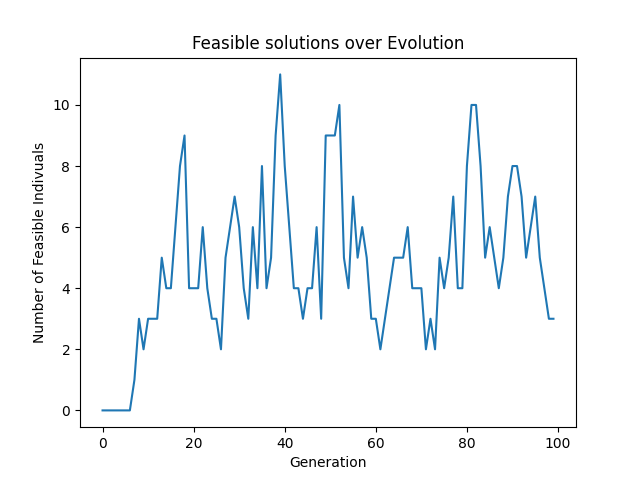
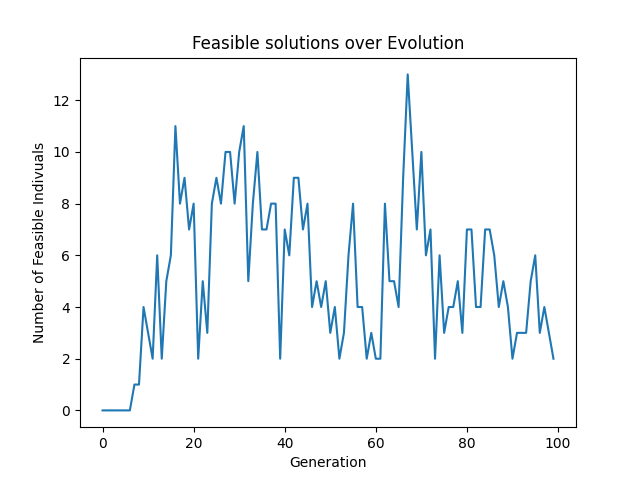
updated hint difficulty

diff --git a/Evolution.py b/Evolution.py
@@ -60,11 +60,11 @@ def decide(rate):
 
 # %%
 HINT_VALUES = {
-    "is": 0.1,
-    "not": 0.1,
-    "before": 0.5,
-    "simple_or": 0.5,
-    "compound_or": 1
+    "is": 0.2,
+    "not": 0.4,
+    "before": 0.7,
+    "simple_or": 0.7,
+    "compound_or": 0.1
   }
 
 
